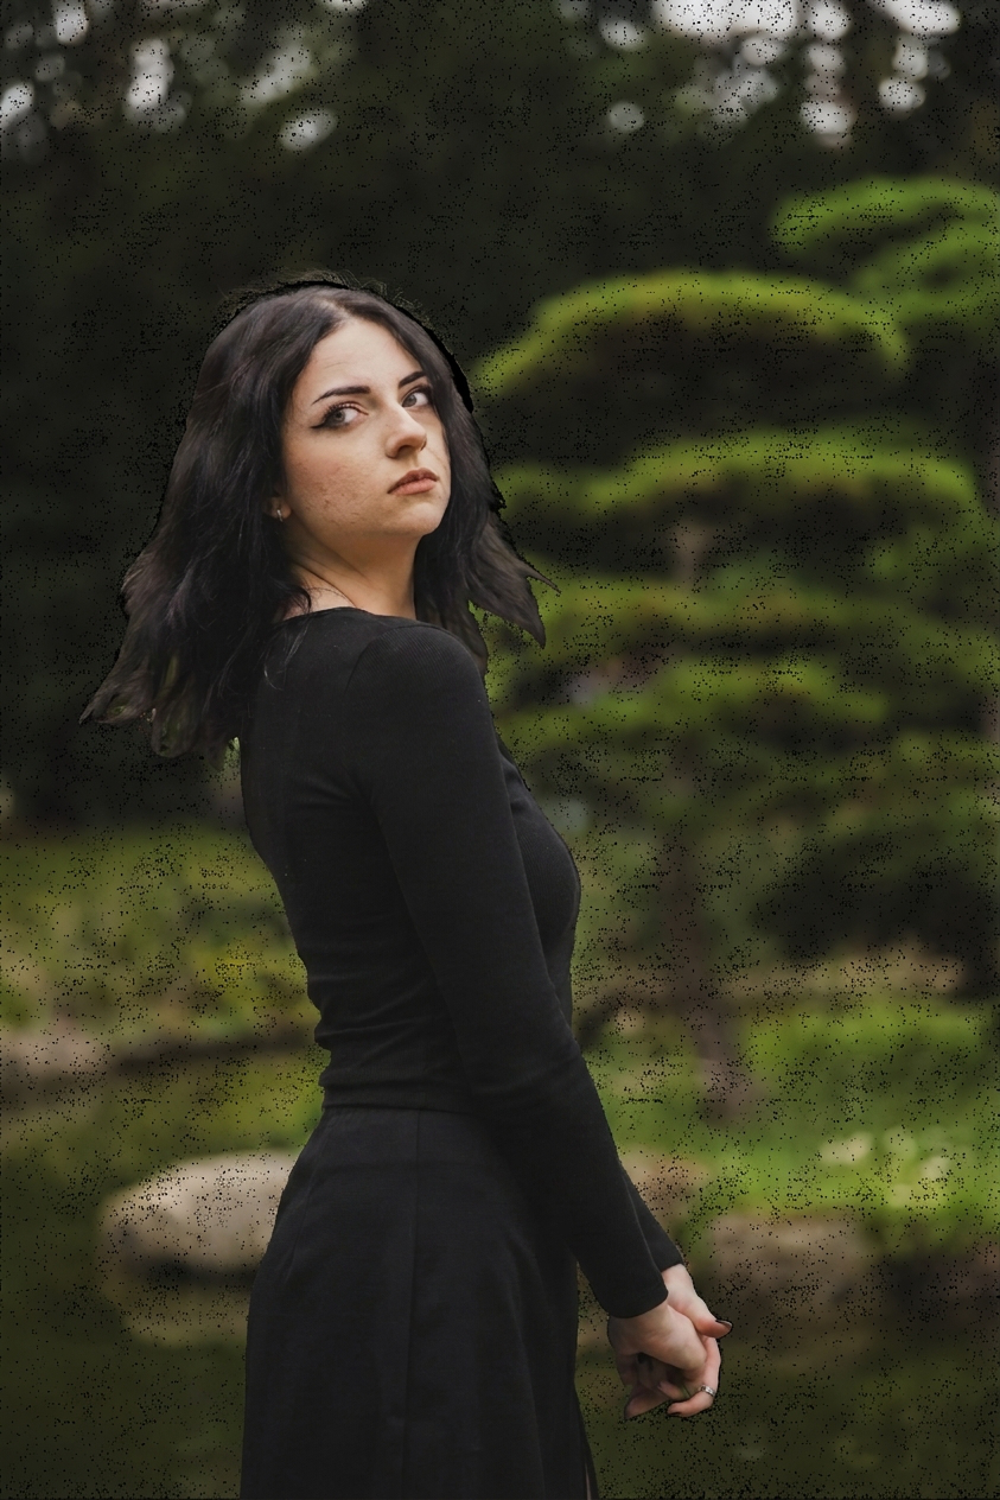
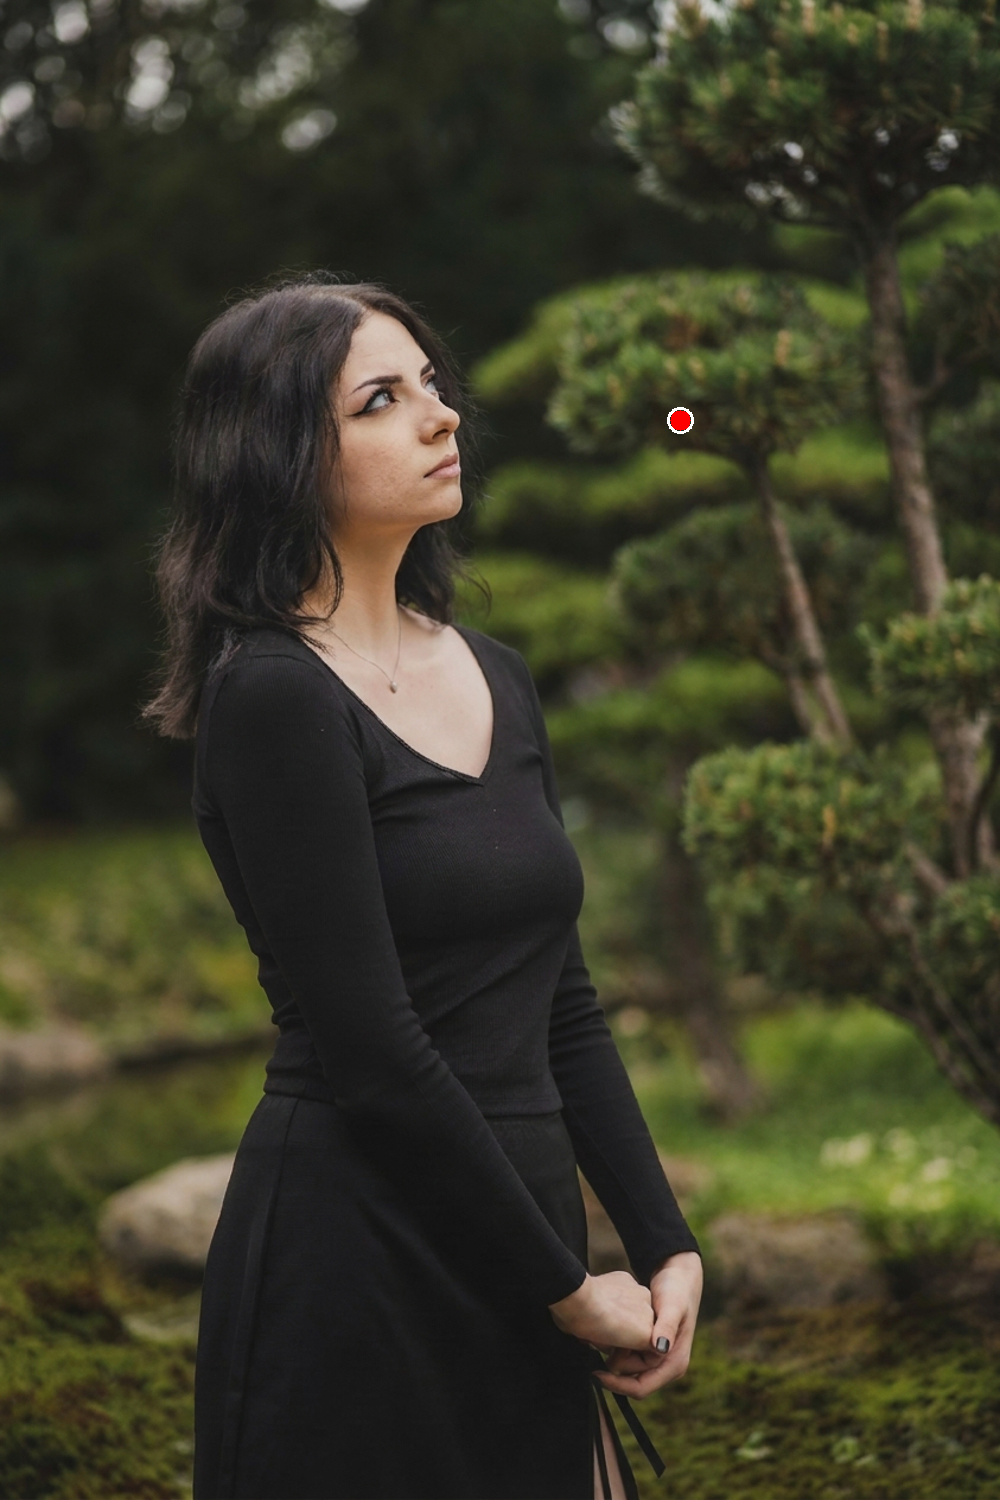
Fix depth-far/no-visual-prompt demo images, replace turnaround with a consistent result
- depth_far: replaced with a representative retry (Gemini's response to the
  same prompt isn't perfectly repeatable; noted this in the text instead of
  keeping a cherry-picked extreme result), added reference red dot
- no_visual_prompt: generic "look up and to her left/right" wording gave
  inconsistent direction across retries; only naming a specific visible
  landmark made it reliably match the visual-prompt condition's direction.
  Rewrote the section around this more accurate finding, added reference dot
- full.png: added reference dot (was missing after the auto-cleanup fix)
- turnaround/after.png: replaced with a clean result from the actual
  interactive tool (target placed off to the side at head height instead of
  aiming for a full frontal turn) — hair color, coat, and body scale all
  stay consistent with the source photo. Rewrote the section to explain the
  partial-turn vs full-turn trade-off

diff --git a/README.md b/README.md
@@ -51,25 +51,34 @@ depth map — dark/purple = far, bright/yellow = near):
 | ![depth far](assets/ablation/depth_far_visual.png) | ![depth near](assets/ablation/depth_near_visual.png) | *(single image, no depth reference)* |
 | ![depth far result](assets/ablation/depth_far.png) | ![depth near result](assets/ablation/full.png) | ![no depth result](assets/ablation/no_depth_prompt.png) |
 
-Same 2D point, two completely different outcomes: told the target is *far
-behind her*, she turns her whole torso around to look back over her
-shoulder; told the exact same screen position is *close, in front of her*,
-she only turns her head/eyes toward it and her body stays put. Remove the
-depth image entirely and Gemini doesn't move her at all — a 2D point alone
-doesn't tell it whether "behind" is even a possibility.
+Same 2D point, two clearly different outcomes: told the target is *far
+behind her*, she turns further and more decisively to glance back over her
+shoulder, toward the camera; told the exact same screen position is *close,
+in front of her*, she only tilts her head/eyes up toward it, a smaller and
+less committed motion. Remove the depth image entirely and Gemini doesn't
+move her at all — a 2D point alone doesn't tell it whether "behind" is
+even a possibility. (Gemini's edits aren't perfectly repeatable — re-running
+the far-depth case a few times produced everything from almost no reaction
+to a full 180° turn-away; the version shown here is a representative
+middle-of-the-road result, not a cherry-picked best case.)
 
 ### 2. A visual marker beats describing the target in words
 
-| No visual prompt (text-only: *"look up and to her right, as if noticing something behind her shoulder"*) | With visual prompt (red-dot marker, same designed prompt) |
+| No visual prompt (text-only) | With visual prompt (red-dot marker, same designed prompt) |
 |---|---|
 | ![no visual prompt](assets/ablation/no_visual_prompt.png) | ![with visual prompt](assets/ablation/full.png) |
 
-The text-only version does turn her in roughly the right direction, but
-it's imprecise — there's no way to specify *exactly* which pixel to look
-at from words alone. It's also visibly noisier: without a marker to anchor
-the edit, the resulting pose drifts further from the original SAM mask,
-so the background-repair pass has a harder job and introduces grain/artifacts
-that the marker-guided version doesn't have.
+Getting the text-only version to point in the *same* direction as the
+marker-guided one took real effort. A generic direction in words ("look up
+and to her left/right") produced inconsistent results across repeated
+runs — sometimes the wrong side entirely, since without a marker there's
+no ground truth for which way "left/right" resolves once a profile pose is
+involved. It only became reliable once the prompt named a specific visible
+landmark in *this particular photo* ("the pine trees in the upper-right of
+the background"). That's the real cost of skipping the visual prompt: not
+that text can't work, but that making it work requires bespoke, per-image
+wording tied to describable landmarks — the opposite of a marker you can
+just click anywhere, including on featureless sky or a plain wall.
 
 ### 3. The designed text prompt keeps the edit contained
 
@@ -99,32 +108,32 @@ work in keeping the edit contained to just the gaze.
 
 *(pending — see below)*
 
-## Beyond gaze: turning a person all the way around
+## Beyond gaze: turning a person who has their back to the camera
 
 The pipeline was designed for gaze redirection, but the same
-mask + depth + prompt recipe generalizes further than expected: pointing
-the target at (roughly) the camera's own position, with a prompt telling
-Gemini the person currently has their back turned, gets a full 180°
-turn-around — not just eyes, the whole head and body:
+mask + depth + prompt recipe generalizes further than expected — no
+special-casing, just the standard tool with a target placed off to the
+side at close (in-front-of-camera) depth:
 
-| Before (facing away) | After (turned to face the camera) |
+| Before (facing away) | After (turned toward the camera) |
 |---|---|
 | ![before turnaround](assets/turnaround/before.png) | ![after turnaround](assets/turnaround/after.png) |
 
-Since her face isn't visible anywhere in the source photo, Gemini has to
-**invent** one from scratch — consistent with her visible hair color, build,
-and clothing, but not a real reconstruction of her actual face. That's a
-meaningfully different claim than the gaze-redirection demos above (which
-only ever reveal a face that's already partially visible in the source
-image), and worth keeping in mind for any use case where the generated
-face matters, not just the head pose.
+Since none of her face is visible in the source photo, any part of the
+turned face Gemini reveals is to some degree **invented**, not
+reconstructed — a meaningfully different claim than the gaze-redirection
+demos above, which only ever reveal a face that's already at least
+partially visible in the source image.
 
-Getting a clean result here also took an extra iteration: the first attempt
-placed the target at the back of her head's original 2D position, which
-made the newly generated face look *up* at it instead of at the camera —
-a reminder that with a full pose change like this, the target position
-needs to account for where the new face will actually end up, not just
-where the old head was.
+How much gets invented depends heavily on how far around you push the
+turn, and that turned out to matter a lot for consistency. Pushing for a
+full frontal turn (target placed right at the camera) worked, but
+sometimes let Gemini take too much creative liberty — hair color, coat
+texture, and even overall body scale could drift from the original. Aiming
+for a partial turn instead (target placed off to the side, at roughly
+head height, like the result above) reveals much less invented face while
+keeping her hair, coat, and proportions fully intact — a better trade-off
+if identity/wardrobe consistency matters more than seeing a full face.
 
 ## How it works
 
